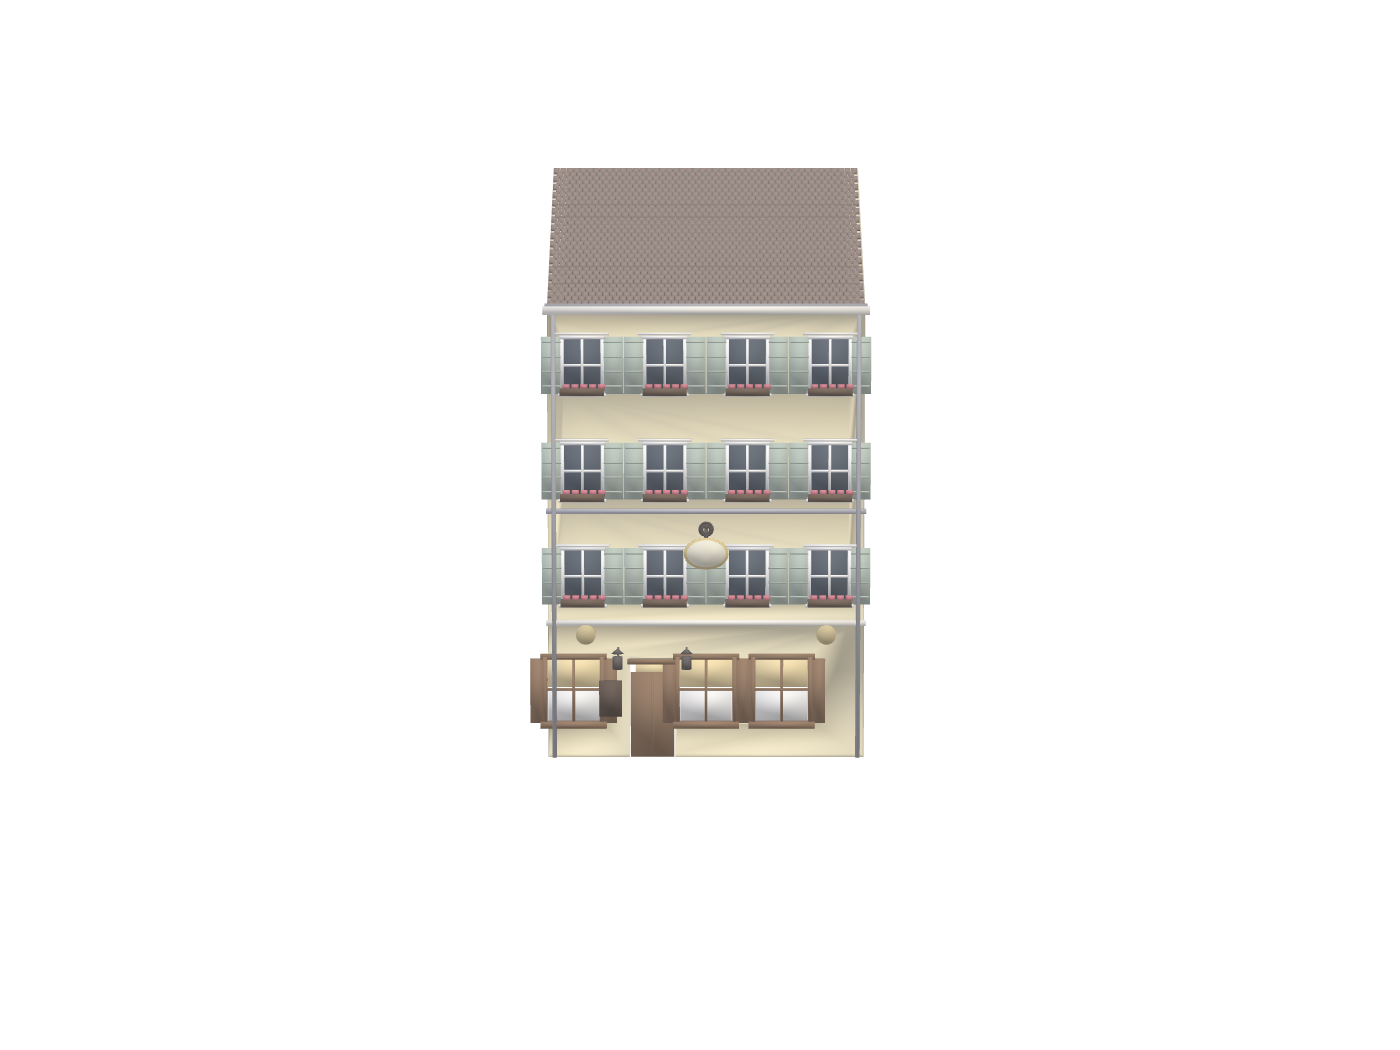
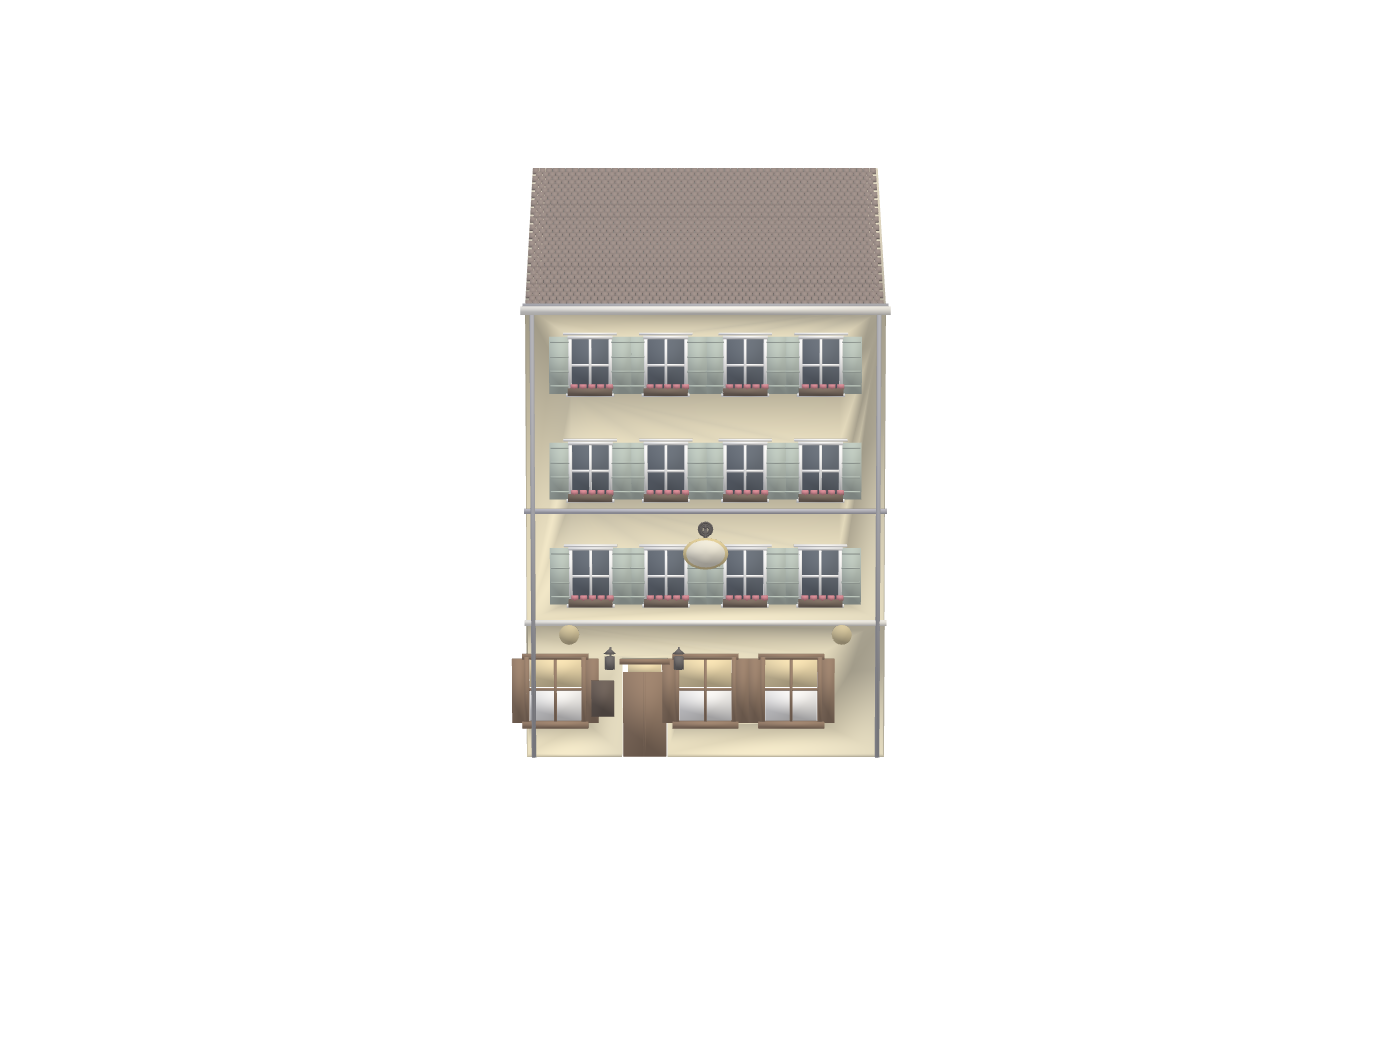
fix(oberkirch): Breite W=9.41 aus LOD2 (nicht mehr zu schmal) + gleichmaessige eingerueckte Achsen
User: Gebaeude zu schmal + Fenster-Abstand/Ueberstand. Fix: W aus LOD2 (9.41 statt
Mess-8.3), Config-W/Achsen schlagen Messung. Achsen [0.18,0.39,0.61,0.82] -> Kanten
1.17/8.24 (Rand fuer Laeden), Abstand ~0.22 (am Foto gemessen). MIT Waechter geprueft
(vorher|nachher|heatmap|foto) VOR Commit. Beleg obk_aenderung.png + obk_vergleich.png.

Changed region(s): [[0.3686, 0.1524, 0.645, 0.7314]]

diff --git a/tools/bauwerk_generator.py b/tools/bauwerk_generator.py
@@ -154,6 +154,8 @@ class Ctx:
                     print(f"   [Fenster-Achsen aus ML+Struktur, fassaden-normiert] {axes}")
         if f.get("axes_x_frac"):                             # Config-Achsen schlagen alles (Mess-Achsen oft daneben)
             axes = f["axes_x_frac"]; print(f"   [Fenster-Achsen aus Config] {axes}")
+        if m.get("W"):                                       # Config-W (aus LOD2) schlägt Mess-W (oft zu schmal)
+            W = float(m["W"]); print(f"   [Breite W aus Config/LOD2] {W} m")
         self.W = float(W); self.eg_top = float(eg_top)
         # --- DACH: First aus GEMESSENER Front-Dachhöhe (perspektiv-echt), Tiefe separat gekappt ---
         self.lod2_depth = float(m["lod2_depth"]); self.lod2_ridge = float(m["lod2_ridge"])
